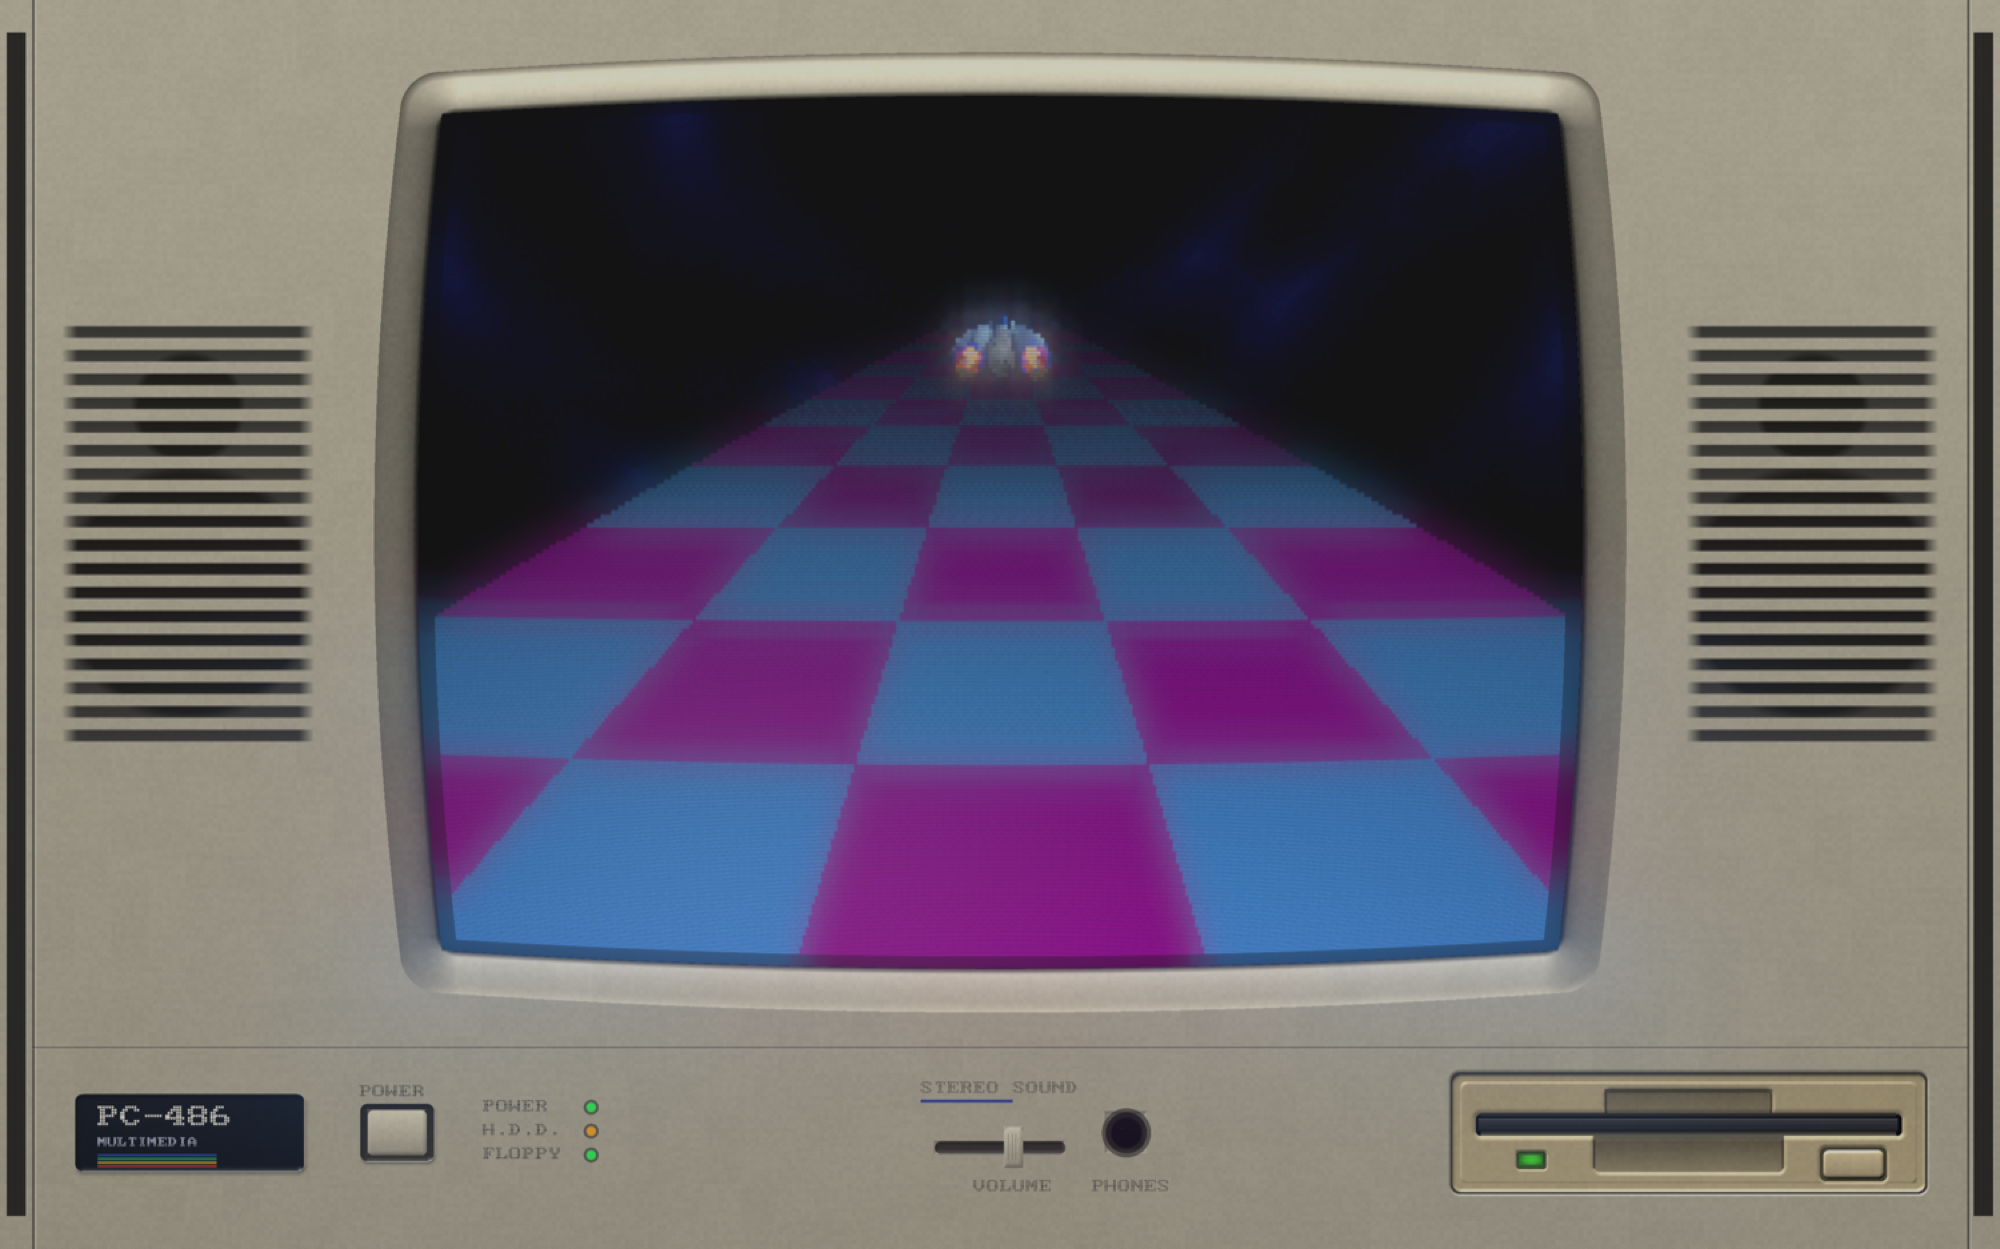
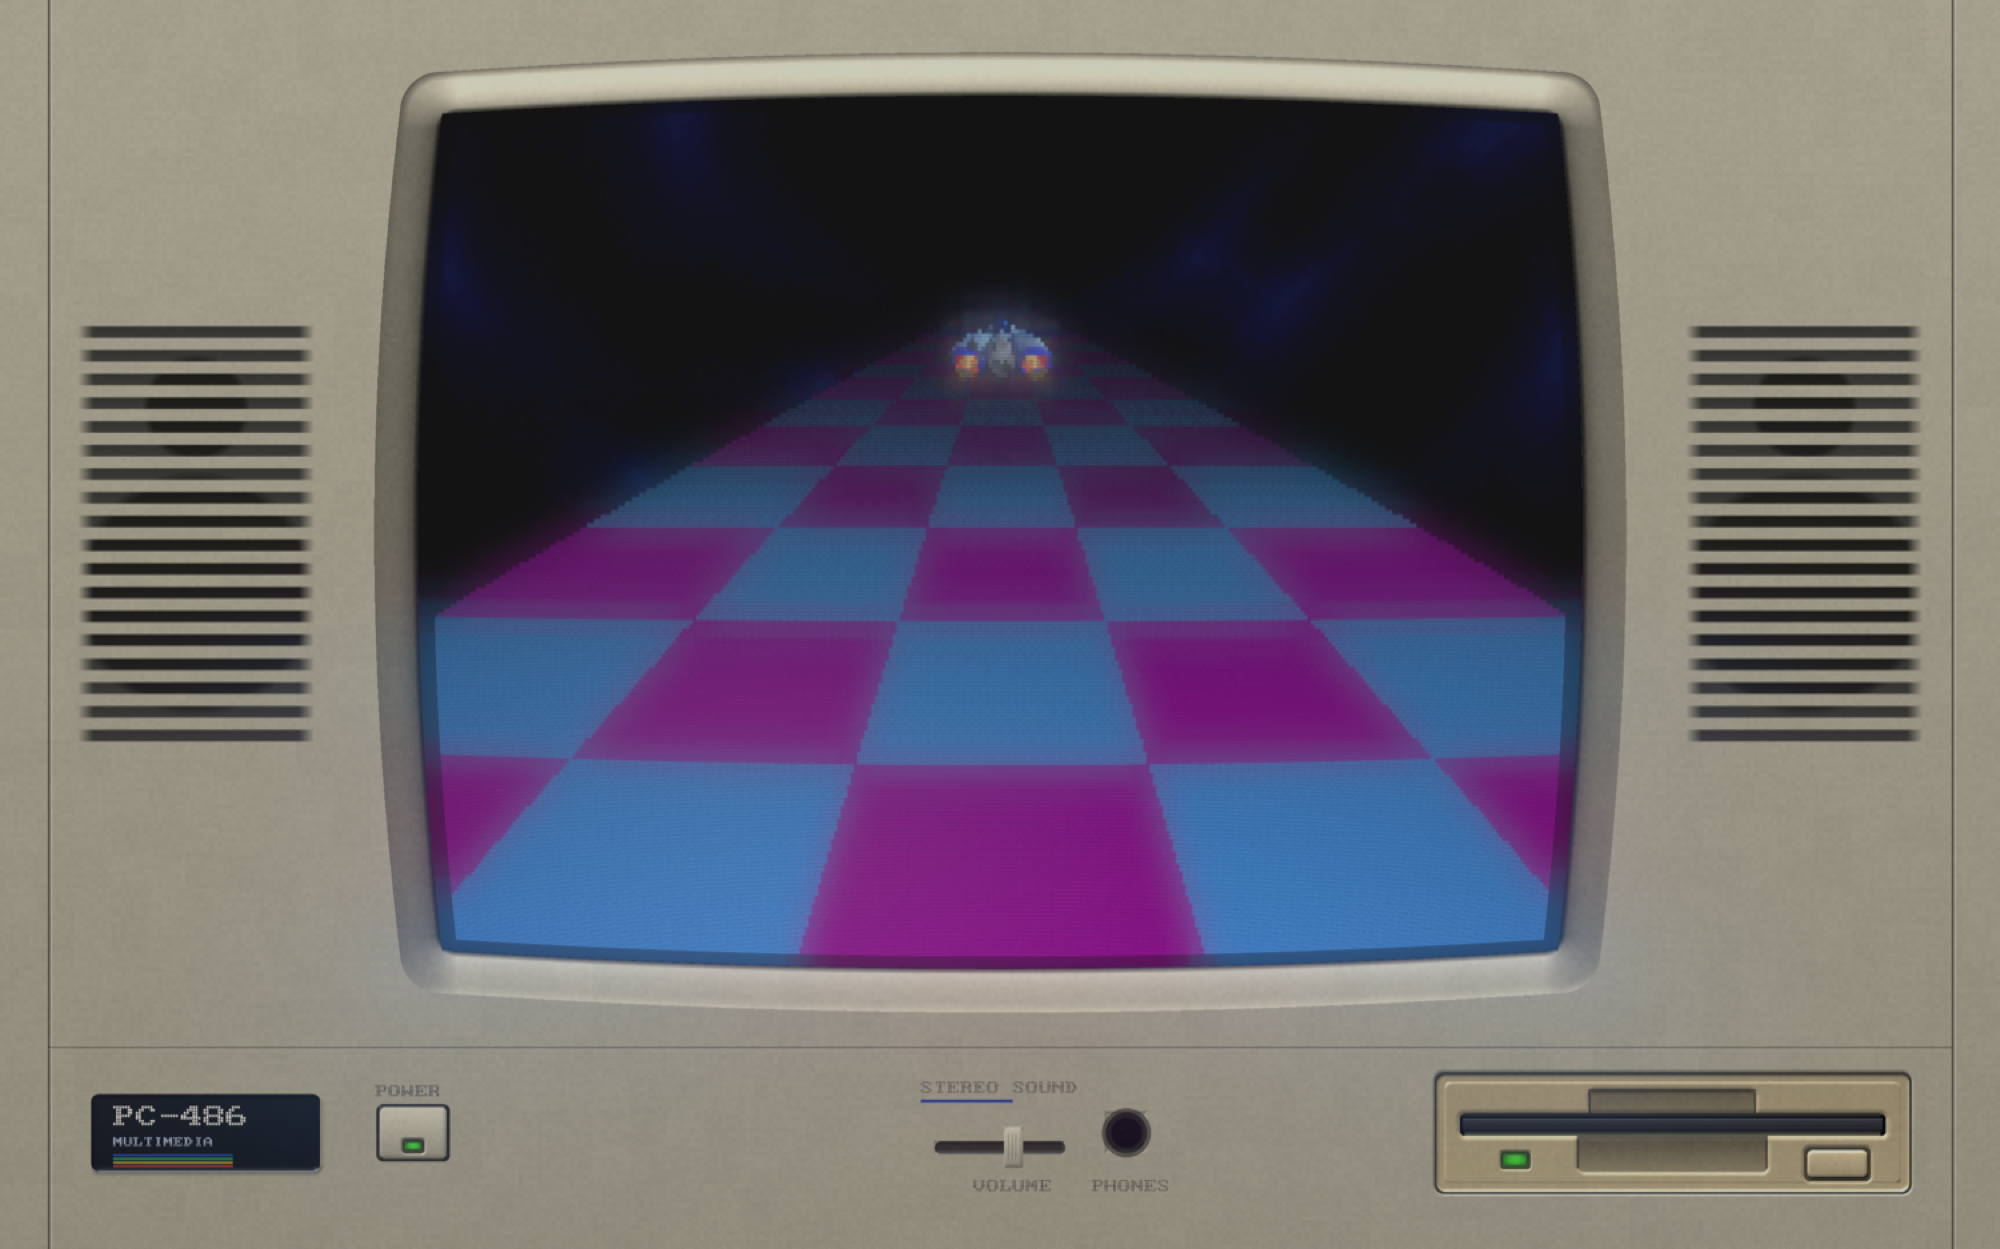
refactor: simplify LED rendering, remove decorative vents, and adjust bezel layout for improved visual fidelity

diff --git a/src/chassis.c b/src/chassis.c
@@ -154,19 +154,35 @@ static void text(canvas *c,float x,float y,const char *s,float sc,int r,int g,in
     }
 }
 static void led(canvas *c,float cx,float cy,float rad,int r,int g,int b){
-    /* sits in a moulded well, so it gets a dark ring and a hot centre */
-    for(int j=(int)(cy-rad*2.2f);j<=(int)(cy+rad*2.2f);j++)
-        for(int i=(int)(cx-rad*2.2f);i<=(int)(cx+rad*2.2f);i++){
-            float dx=i-cx,dy=j-cy,d=sqrtf(dx*dx+dy*dy);
-            if(d<rad*1.65f && d>=rad*0.95f) px_blend(c,i,j,40,38,34,0.55f);
+    /* Matched to the reference PNG's LEDs at 16x magnification:
+     *  - a THIN dark outline hugging the lens (heavier at the top), not a
+     *    wide mounting ring
+     *  - a saturated, fairly uniform body, deepening toward lower-right
+     *  - a soft whitish hot spot in the upper-left quarter
+     *  - NO glow halo on the surrounding plastic                        */
+    for(int j2=(int)(cy-rad*1.25f);j2<=(int)(cy+rad*1.25f);j2++)
+        for(int i2=(int)(cx-rad*1.25f);i2<=(int)(cx+rad*1.25f);i2++){
+            float dx=(i2-cx)/rad, dy=(j2-cy)/rad;
+            float d=sqrtf(dx*dx+dy*dy);
+            if(d>1.22f) continue;
+            if(d>0.92f){                          /* thin outline */
+                float a=1.0f-fmaxf(0.0f,(d-1.05f)/0.17f);
+                a*=fminf(1.0f,(d-0.86f)/0.10f);
+                float top=(dy<0.0f)?1.0f:0.72f;   /* heavier above */
+                px_blend(c,i2,j2,26,22,14,a*0.85f*top);
+                continue;
+            }
+            /* body: uniform, deepening to lower-right */
+            float f=0.94f-0.22f*fmaxf(0.0f,(dx+dy)*0.5f);
+            if(d>0.72f) f*=1.0f-(d-0.72f)/0.28f*0.30f;
+            /* hot spot up-left: soft gaussian, whitening not just brightening */
+            float hx=(dx+0.30f)/0.42f, hy=(dy+0.32f)/0.42f;
+            float w2=expf(-(hx*hx+hy*hy));
+            int rr=(int)(r*f+(255-r*f)*w2);
+            int gg=(int)(g*f+(255-g*f)*w2);
+            int bb=(int)(b*f+(255-b*f)*w2*0.9f);
+            px_blend(c,i2,j2,rr,gg,bb,1.0f);
         }
-    for(int j=(int)(cy-rad-2);j<=(int)(cy+rad+2);j++)
-        for(int i=(int)(cx-rad-2);i<=(int)(cx+rad+2);i++){
-            float dx=i-cx,dy=j-cy,d=sqrtf(dx*dx+dy*dy);
-            if(d<=rad)          px_blend(c,i,j,r,g,b,1.0f);
-            else if(d<rad+2.0f) px_blend(c,i,j,r,g,b,0.28f*(rad+2.0f-d));
-        }
-    px_blend(c,(int)(cx-rad*0.3f),(int)(cy-rad*0.3f),255,255,255,0.55f);
 }
 
 /* ---- moulded modules ---- */
@@ -208,21 +224,6 @@ static void grille_panel(canvas *c,float x,float y,float w,float h,float pitch){
         /* the thinnest lit line under each rib, or the slats read as paint */
         for(int i2=(int)(x+slot);i2<(int)(x+w-slot);i2++)
             px_blend(c,i2,(int)(sy+slot),252,250,244,0.15f);
-    }
-}
-/* thin vent slots straight into flat plastic (case breathing holes) */
-static void vents(canvas *c,float x,float y,float w,float h,int n,int vertical){
-    if(n<1) n=1;
-    float step=(vertical?w:h)/n, slot=fmaxf(1.2f,step*0.40f);
-    for(int k=0;k<n;k++){
-        float o=(vertical?x:y)+k*step+step*0.30f;
-        for(int t=0;t<(int)slot;t++){
-            float f=(float)t/slot; int v=(int)(34+26*f);
-            if(vertical) for(int j=(int)y;j<(int)(y+h);j++) px_blend(c,(int)o+t,j,v,v-1,v-3,0.80f);
-            else        for(int i=(int)x;i<(int)(x+w);i++) px_blend(c,i,(int)o+t,v,v-1,v-3,0.80f);
-        }
-        if(vertical) for(int j=(int)y;j<(int)(y+h);j++) px_blend(c,(int)(o+slot),j,255,252,244,0.26f);
-        else        for(int i=(int)x;i<(int)(x+w);i++) px_blend(c,i,(int)(o+slot),255,252,244,0.26f);
     }
 }
 static void seam(canvas *c,float x,float y,float len,int vertical,float w){
@@ -434,7 +435,7 @@ dxm_layout chassis_layout(int W,int H){
     dxm_layout L; float aspect=(float)W/(float)H;
     L.variant = aspect<1.45f?LAY_COMPACT : (aspect<1.85f?LAY_STANDARD:LAY_STEREO);
     L.cx=0; L.cy=0; L.cw=(float)W; L.ch=(float)H;
-    float edge=W*0.016f, inset=H*0.052f;
+    float edge=W*0.024f, inset=H*0.052f;
     /* the monitor housing is chunky: it wraps the picture by BEZEL_HOUSING
      * on every side, and the layout has to budget for it */
     float th=((float)H-inset)*0.735f, tw=th*4.0f/3.0f;   /* slimmer band */
@@ -620,17 +621,17 @@ uint8_t *chassis_render(const dxm_layout *L,int W,int H){
     canvas C; C.w=W; C.h=H; C.px=calloc((size_t)W*H,4);
     canvas *c=&C;
     g_lbl=fmaxf(1.0f,(float)H/760.0f);
-    float inset=H*0.052f, edge=W*0.016f;
+    float inset=H*0.052f, edge=W*0.024f;
     float bz=L->tube_h*BEZEL_BAND;      /* measured off the reference */
     float hous=L->tube_h*BEZEL_HOUSING;
 
     rrect(c,0,0,(float)W,(float)H,0.0f,PLASTIC_R,PLASTIC_G,PLASTIC_B,1.03f,0.90f);
 
-    /* ribbed edge strips */
-    vents(c,edge*0.20f,inset*0.5f,edge*0.60f,H-inset,(int)((H-inset)/(H*0.017f)),1);
-    vents(c,W-edge*0.80f,inset*0.5f,edge*0.60f,H-inset,(int)((H-inset)/(H*0.017f)),1);
-    seam(c,edge,0,(float)H,1,fmaxf(1.0f,W*0.0012f));
-    seam(c,W-edge,0,(float)H,1,fmaxf(1.0f,W*0.0012f));
+    /* Edge strips: plain plastic, separated from the face by a seam. */
+    {
+      seam(c,edge,0,(float)H,1,fmaxf(1.0f,W*0.0012f));
+      seam(c,(float)W-edge,0,(float)H,1,fmaxf(1.0f,W*0.0012f));
+    }
 
     /* bezel band -> aperture -> glass.  The housing face itself is NOT
      * repainted: it is flush with the case, and giving it its own plate with
@@ -684,23 +685,15 @@ uint8_t *chassis_render(const dxm_layout *L,int W,int H){
         float px0=pbx+pbw+inset*0.85f;
         float pw=16.0f*mm;                       /* a 16mm power cap */
         text(c,px0,mid-pw*0.39f-g_lbl*11,"POWER",g_lbl,86,82,74);
-        rrect(c,px0,mid-pw*0.39f,pw,pw*0.78f,pw*0.10f,88,85,78,0.62f,0.70f);
-        housing_edge(c,px0,mid-pw*0.39f,pw,pw*0.78f,pw*0.10f,
-                     fmaxf(2.0f,pw*0.08f),fmaxf(2.0f,pw*0.07f),0,1.0f);
-        rrect(c,px0+pw*0.10f,mid-pw*0.39f+pw*0.08f,pw*0.80f,pw*0.62f,pw*0.08f,
+        /* thin cut around the button, cap nearly filling it */
+        rrect(c,px0,mid-pw*0.39f,pw,pw*0.78f,pw*0.10f,64,61,56,0.80f,0.92f);
+        rrect(c,px0+pw*0.045f,mid-pw*0.39f+pw*0.04f,pw*0.91f,pw*0.70f,pw*0.08f,
               PLASTIC_R,PLASTIC_G,PLASTIC_B,1.16f,0.84f);
-        bevel(c,px0+pw*0.10f,mid-pw*0.39f+pw*0.08f,pw*0.80f,pw*0.62f,
+        bevel(c,px0+pw*0.045f,mid-pw*0.39f+pw*0.04f,pw*0.91f,pw*0.70f,
               fmaxf(1.0f,pw*0.06f),1);
-        { float lx=px0+pw+inset*0.75f;
-          float lstep=fmaxf(band_h*0.16f,13.0f*g_lbl);
-          float ly=mid-lstep*1.35f;
-          const char *lab[3]={"POWER","H.D.D.","FLOPPY"};
-          int lc[3][3]={{60,255,90},{255,175,40},{60,255,90}};
-          for(int k=0;k<3;k++){
-              text(c,lx,ly+k*lstep,lab[k],g_lbl,86,82,74);
-              led(c,lx+8.0f*g_lbl*8.2f,ly+k*lstep+4*g_lbl,
-                  fmaxf(2.0f,inset*0.070f),lc[k][0],lc[k][1],lc[k][2]);
-          } }
+        /* power LED: a small round lens under the button */
+        led(c,px0+pw*0.5f,mid-pw*0.39f+pw*0.78f+fmaxf(4.0f,band_h*0.09f),
+            1.35f*mm,70,225,60);
 
         /* centre: stereo sound, volume, phones */
         float cxm=(float)W*0.5f;
